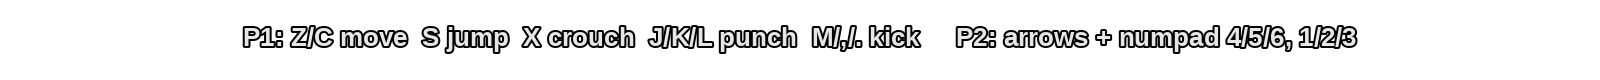
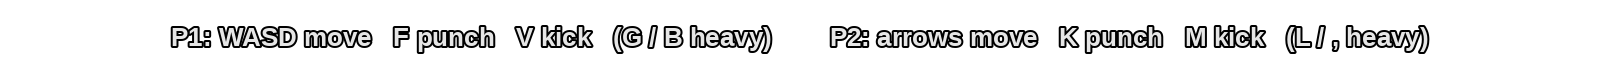
Controls: P1 WASD + F/V (G/B heavy), P2 arrows + K/M (L/, heavy)

Changed region(s): [[0.0938, 0.3, 0.9062, 0.675]]

diff --git a/README.md b/README.md
@@ -23,11 +23,11 @@ A retro 2D street-fighting game set in a Kerala town — written in C++ with SDL
 
 | | Player 1 | Player 2 |
 |---|---|---|
-| Move | Z / C | ← / → |
-| Jump | S | ↑ |
-| Crouch | X | ↓ |
-| Punches (light / medium / heavy) | J / K / L | Numpad 4 / 5 / 6 |
-| Kicks (light / medium / heavy) | M / , / . | Numpad 1 / 2 / 3 |
+| Move | A / D | ← / → |
+| Jump | W | ↑ |
+| Crouch | S | ↓ |
+| Punch (heavy) | F (G) | K (L) |
+| Kick (heavy) | V (B) | M (,) |
 | Start / confirm | Enter, Space or any attack button | |
 | Pause | Esc or P | |
 
